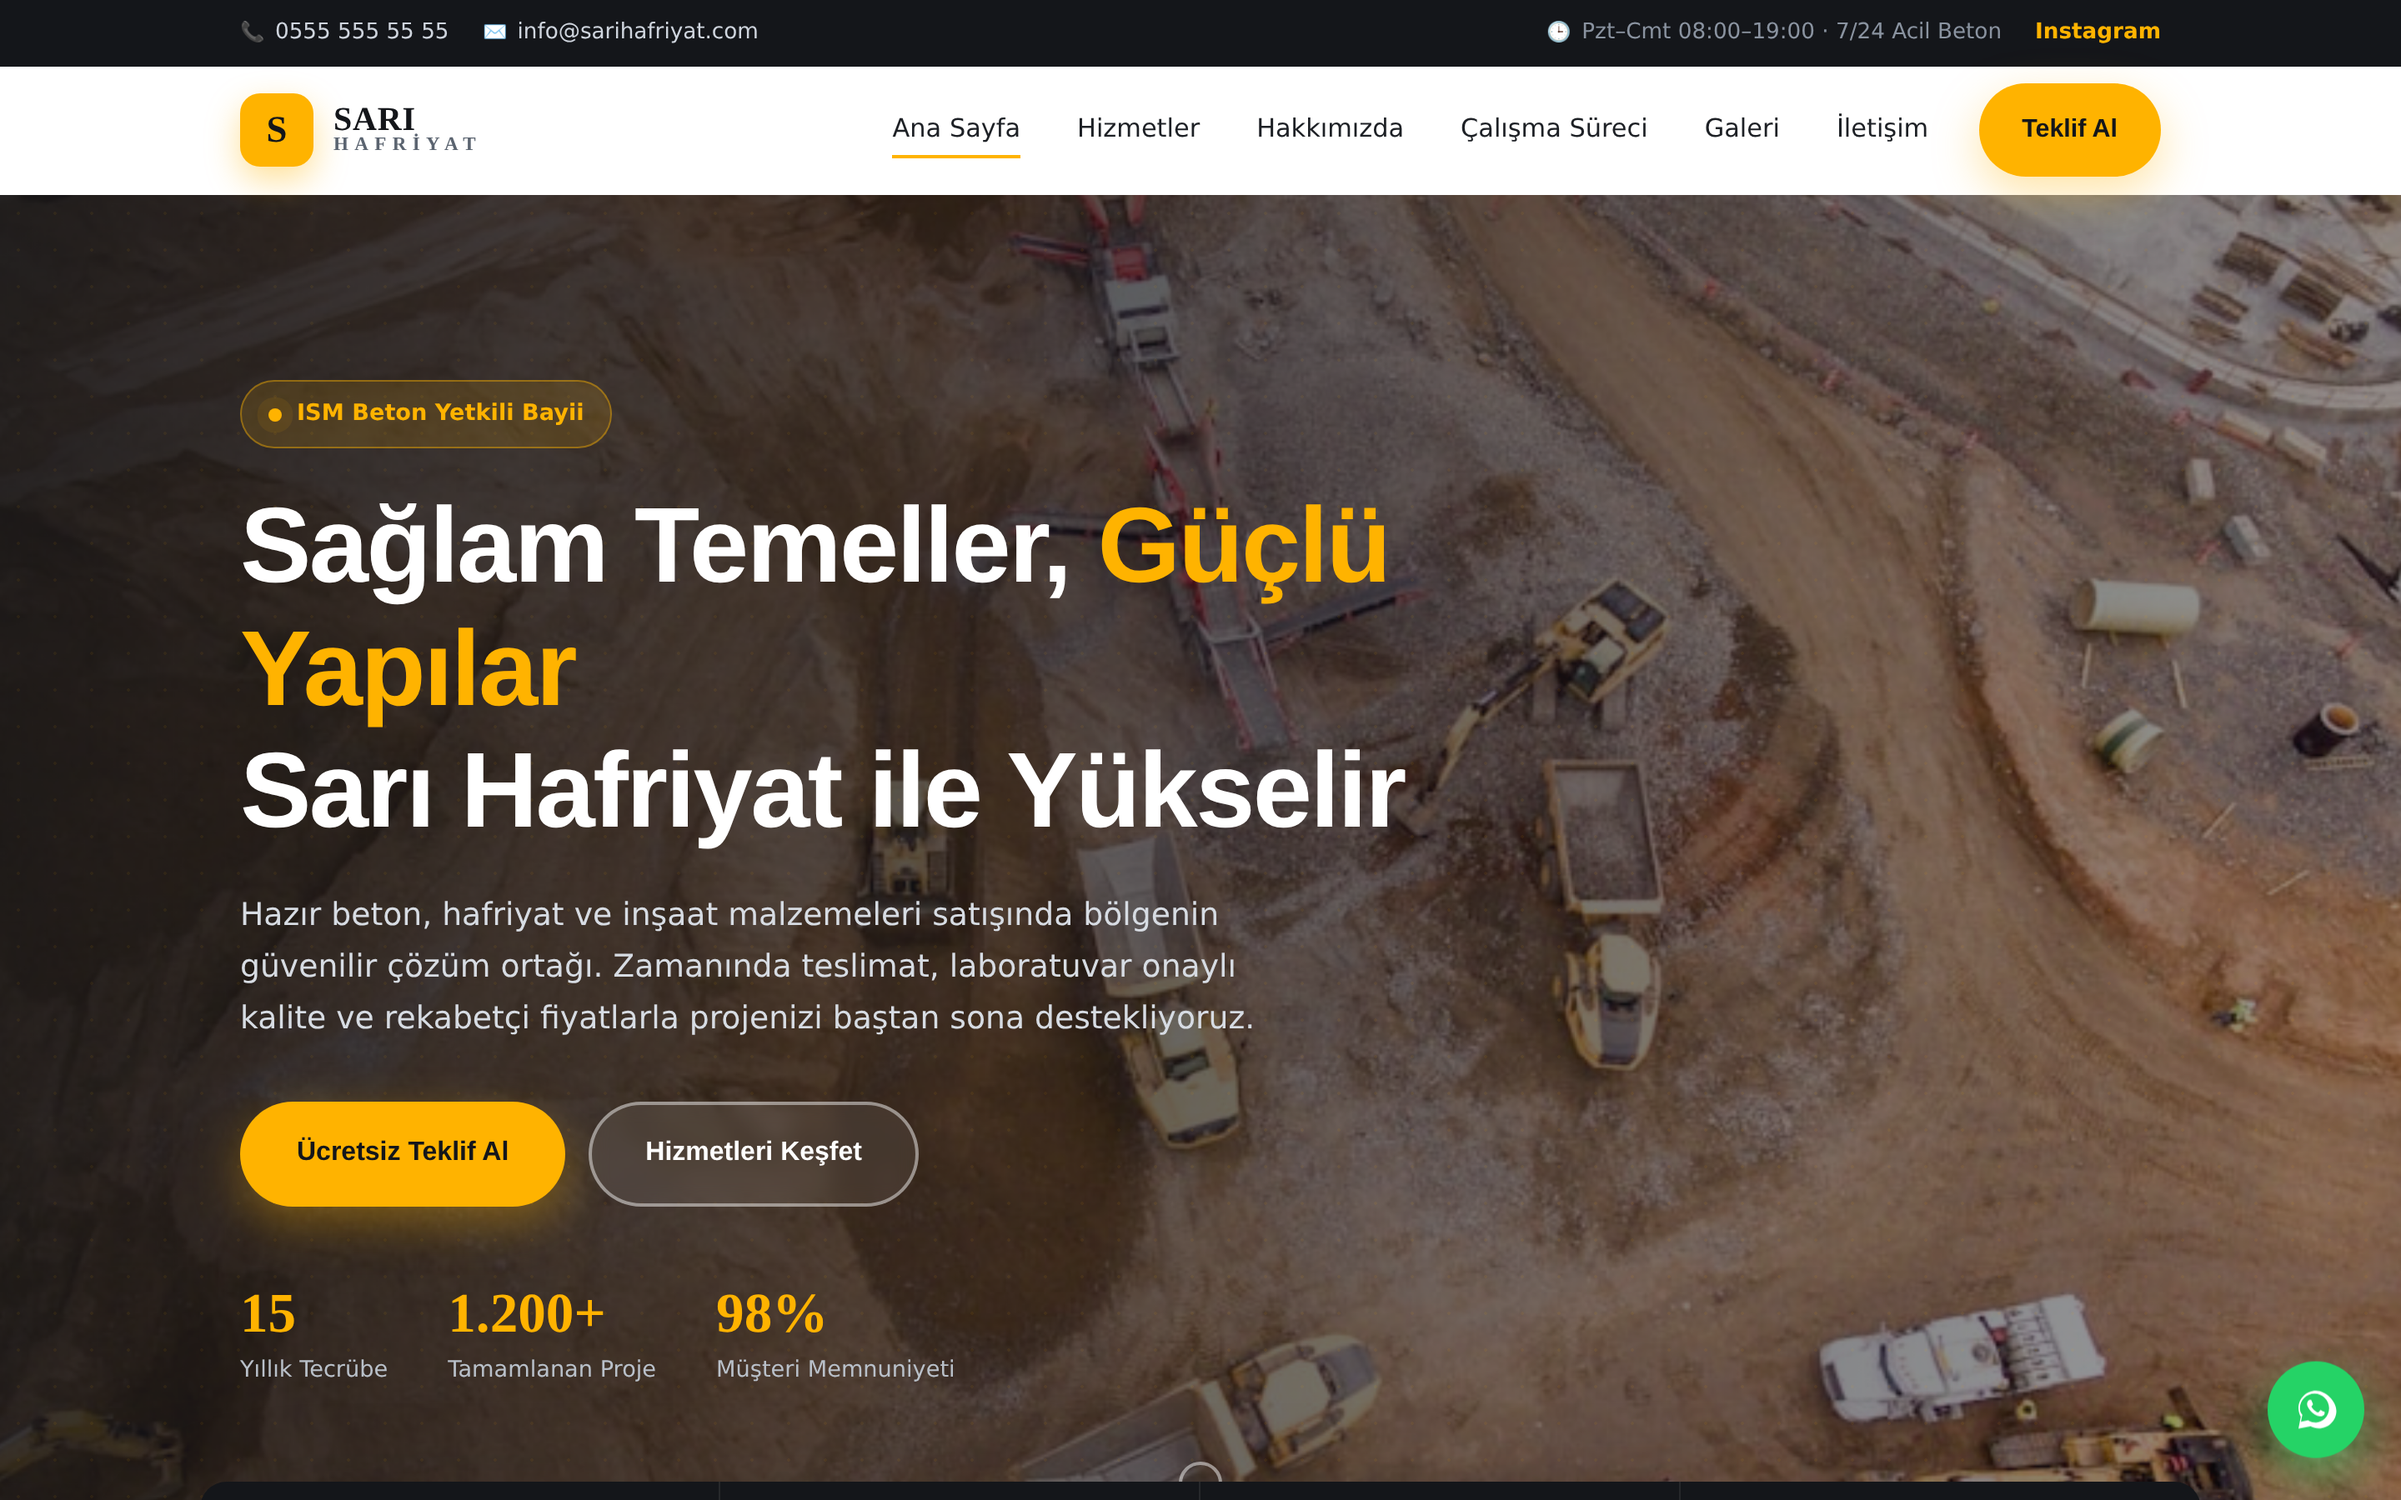
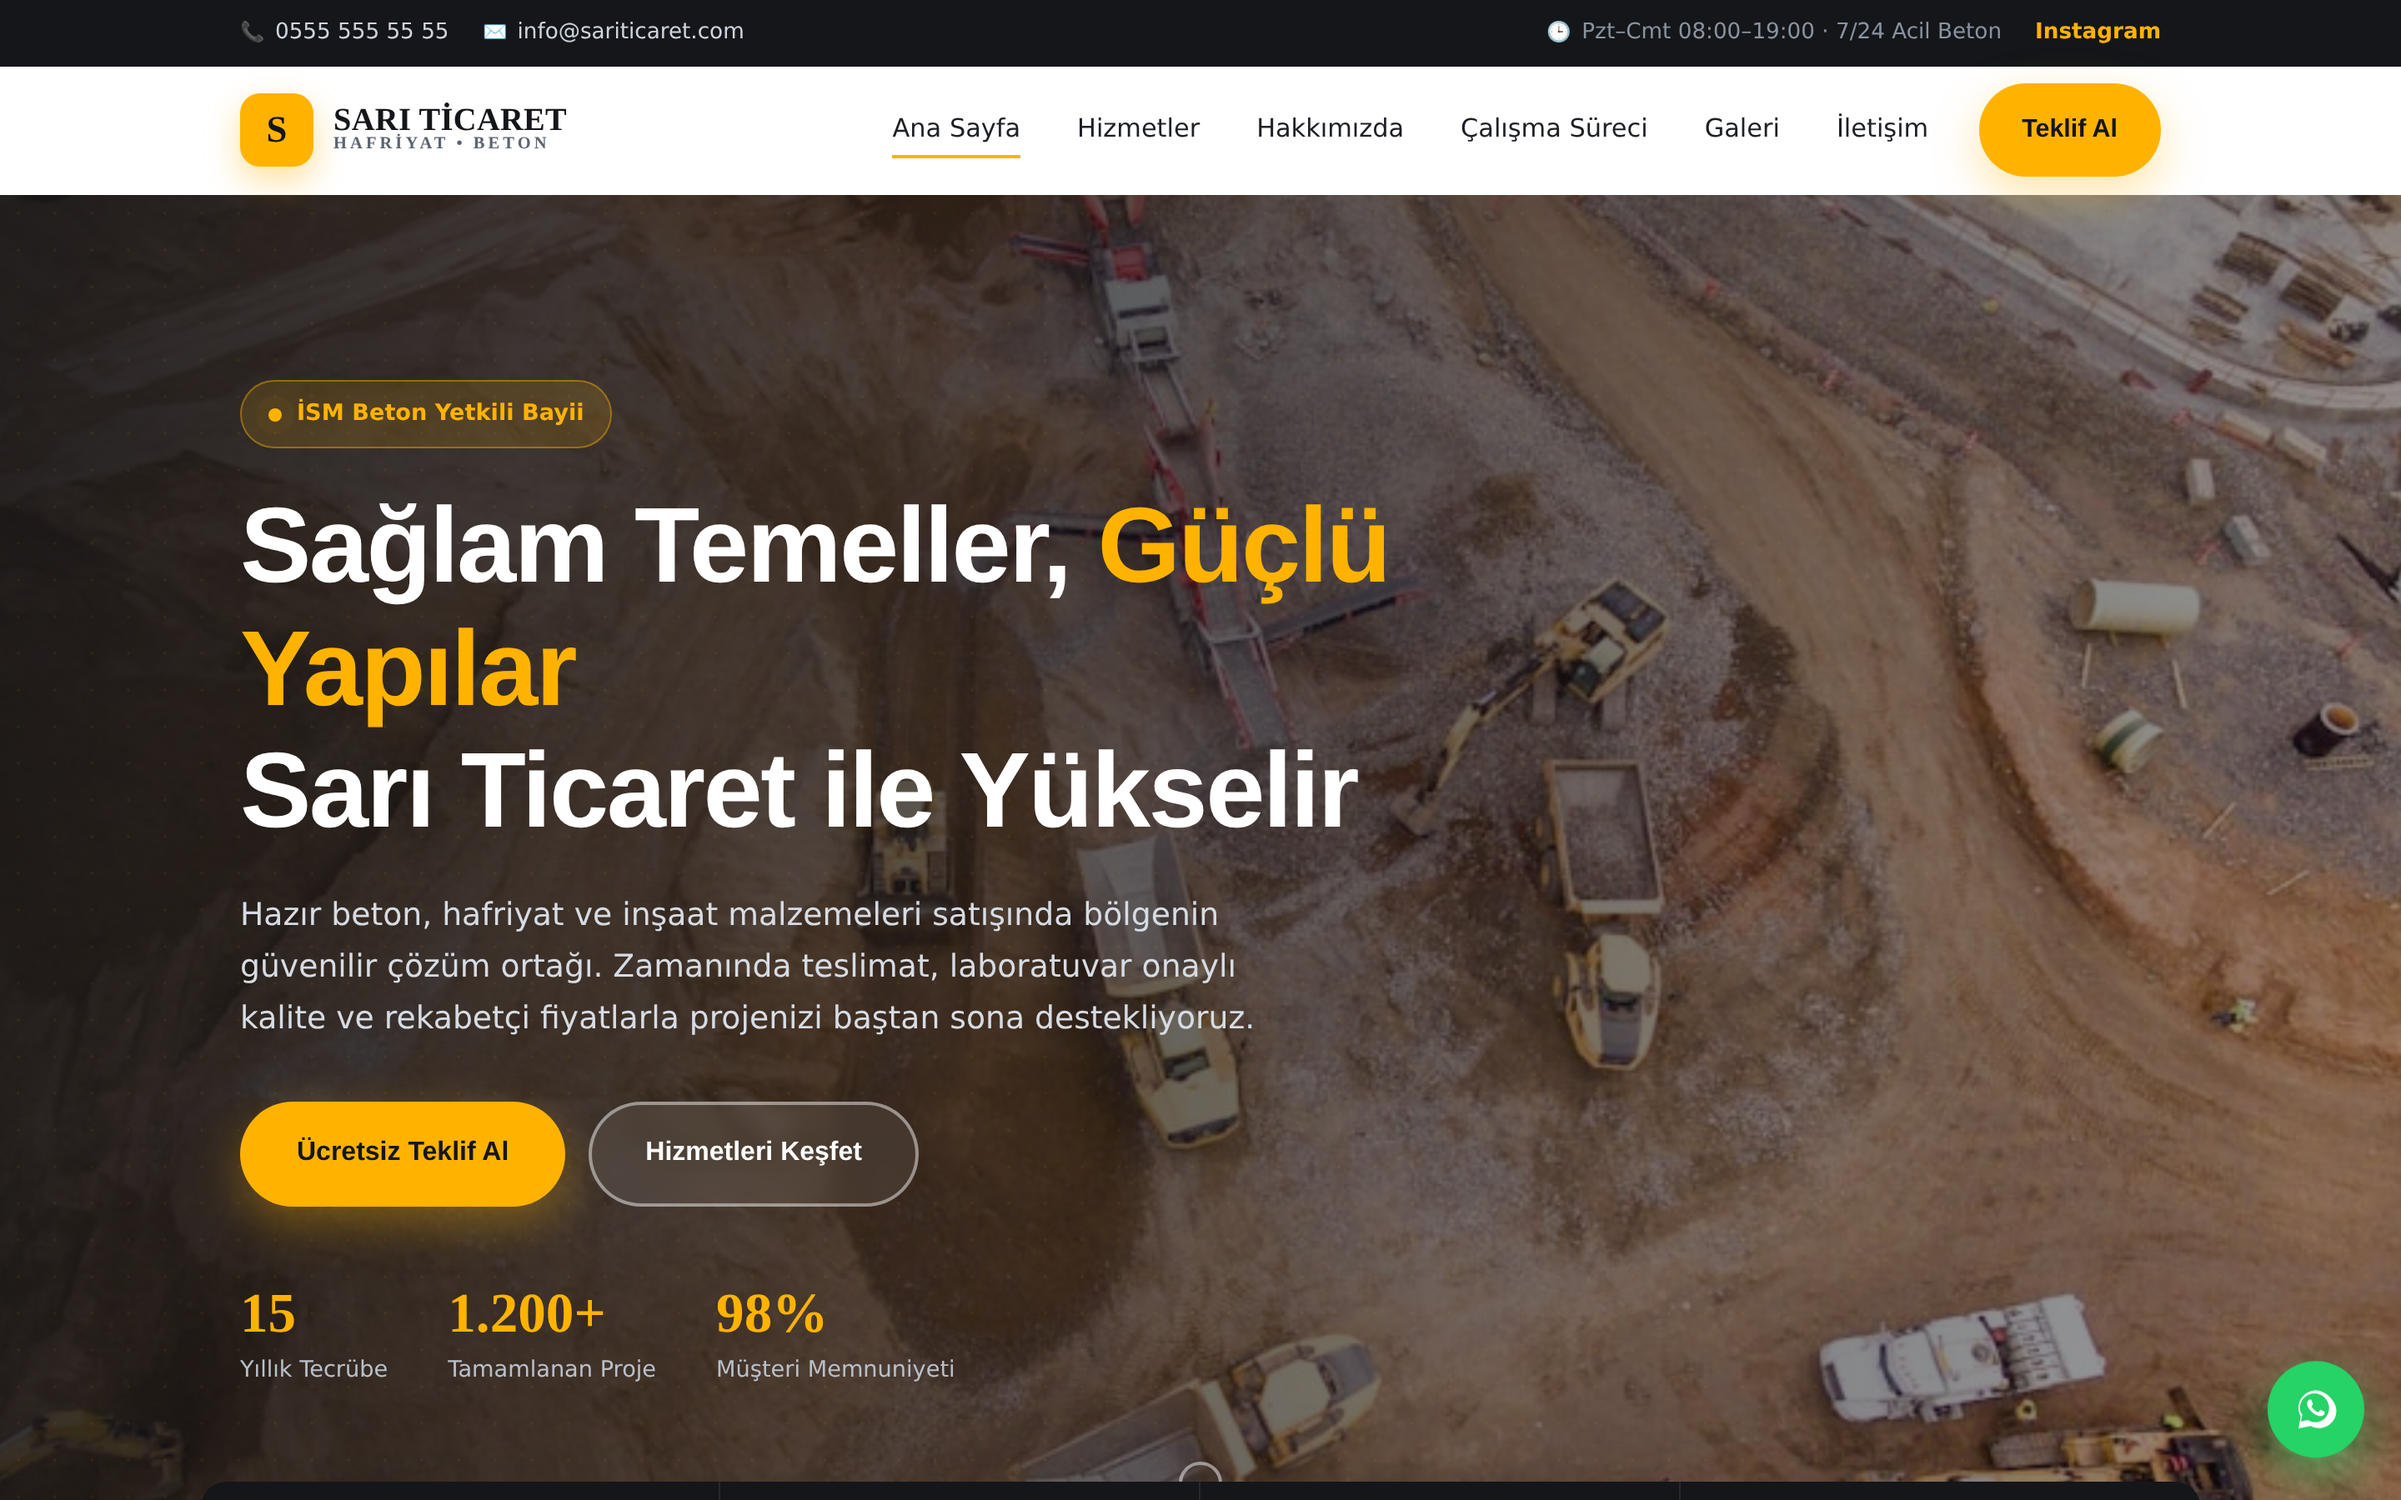
Rebrand site to SARI TİCARET (İSM Beton bayii) with Hafriyat & Beton tagline
Update brand name across header, footer, hero, about, meta/title/OG, map
and README to 'Sarı Ticaret' with 'HAFRİYAT • BETON' lockup tagline.
Normalize 'İSM Beton' spelling and align email placeholder. Refresh
screenshots.

Changed region(s): [[0.1875, 0.4978, 0.5938, 0.56], [0.125, 0.0622, 0.25, 0.1244], [0.25, 0.0, 0.3125, 0.0311]]

diff --git a/website/index.html b/website/index.html
@@ -4,15 +4,15 @@
   <meta charset="UTF-8" />
   <meta name="viewport" content="width=device-width, initial-scale=1.0" />
   <meta name="theme-color" content="#1a1a1a" />
-  <title>Sarı Hafriyat | Beton · Hafriyat · Malzeme Satışı — ISM Beton Bayii</title>
-  <meta name="description" content="Sarı Hafriyat — Hazır beton, hafriyat ve inşaat malzemeleri satışında güvenilir çözüm ortağınız. ISM Beton yetkili bayii. Zamanında teslimat, kaliteli malzeme, uygun fiyat." />
-  <meta name="keywords" content="hafriyat, hazır beton, beton bayii, ISM beton, inşaat malzemesi, kum, çakıl, mıcır, beton santrali, kazı, dolgu" />
+  <title>Sarı Ticaret | Hafriyat · Beton · Malzeme Satışı — İSM Beton Bayii</title>
+  <meta name="description" content="Sarı Ticaret — Hafriyat, hazır beton ve inşaat malzemeleri satışında güvenilir çözüm ortağınız. İSM Beton yetkili bayii. Zamanında teslimat, kaliteli malzeme, uygun fiyat." />
+  <meta name="keywords" content="hafriyat, hazır beton, beton bayii, İSM Beton, inşaat malzemesi, kum, çakıl, mıcır, beton santrali, kazı, dolgu" />
   <meta name="author" content="Altuncloud - Morina Aş." />
 
   <!-- Open Graph -->
   <meta property="og:type" content="website" />
-  <meta property="og:title" content="Sarı Hafriyat | Beton · Hafriyat · Malzeme Satışı" />
-  <meta property="og:description" content="ISM Beton yetkili bayii. Hazır beton, hafriyat ve inşaat malzemeleri için güvenilir adres." />
+  <meta property="og:title" content="Sarı Ticaret | Hafriyat · Beton · Malzeme Satışı" />
+  <meta property="og:description" content="İSM Beton yetkili bayii. Hazır beton, hafriyat ve inşaat malzemeleri için güvenilir adres." />
   <meta property="og:locale" content="tr_TR" />
 
   <link rel="preconnect" href="https://fonts.googleapis.com" />
@@ -28,7 +28,7 @@
     <div class="container topbar__inner">
       <div class="topbar__left">
         <a href="tel:+905555555555" class="topbar__item"><span class="ico" aria-hidden="true">📞</span> 0555 555 55 55</a>
-        <a href="mailto:info@sarihafriyat.com" class="topbar__item"><span class="ico" aria-hidden="true">✉</span> info@sarihafriyat.com</a>
+        <a href="mailto:info@sariticaret.com" class="topbar__item"><span class="ico" aria-hidden="true">✉</span> info@sariticaret.com</a>
       </div>
       <div class="topbar__right">
         <span class="topbar__item topbar__item--muted"><span class="ico" aria-hidden="true">🕒</span> Pzt–Cmt 08:00–19:00 · 7/24 Acil Beton</span>
@@ -40,10 +40,10 @@
   <!-- ====== HEADER / NAV ====== -->
   <header class="header" id="header">
     <div class="container header__inner">
-      <a href="#anasayfa" class="brand" aria-label="Sarı Hafriyat ana sayfa">
+      <a href="#anasayfa" class="brand" aria-label="Sarı Ticaret ana sayfa">
         <span class="brand__mark">S</span>
         <span class="brand__text">
-          <strong>SARI</strong><span>HAFRİYAT</span>
+          <strong>SARI TİCARET</strong><span>HAFRİYAT • BETON</span>
         </span>
       </a>
 
@@ -70,9 +70,9 @@
     <div class="hero__overlay" aria-hidden="true"></div>
     <div class="container hero__inner">
       <div class="hero__content reveal">
-        <span class="badge"><span class="badge__dot"></span> ISM Beton Yetkili Bayii</span>
+        <span class="badge"><span class="badge__dot"></span> İSM Beton Yetkili Bayii</span>
         <h1 class="hero__title">
-          Sağlam Temeller, <span class="hl">Güçlü Yapılar</span><br>Sarı Hafriyat ile Yükselir
+          Sağlam Temeller, <span class="hl">Güçlü Yapılar</span><br>Sarı Ticaret ile Yükselir
         </h1>
         <p class="hero__lead">
           Hazır beton, hafriyat ve inşaat malzemeleri satışında bölgenin güvenilir çözüm ortağı.
@@ -128,7 +128,7 @@
         <article class="service reveal">
           <div class="service__media service__media--beton" aria-hidden="true"></div>
           <div class="service__body">
-            <span class="service__tag">ISM Beton Bayii</span>
+            <span class="service__tag">İSM Beton Bayii</span>
             <h3>Hazır Beton</h3>
             <p>C16/20'den C50/60'a kadar tüm sınıflarda TSE standartlarına uygun hazır beton. Pompa ve mikser desteğiyle dökümünüzü sorunsuz tamamlayın.</p>
             <ul class="service__list">
@@ -188,11 +188,11 @@
       <div class="about__content reveal" data-delay="120">
         <span class="kicker">Hakkımızda</span>
         <h2 class="section__title">Bölgenin <span class="hl">Güvenilir</span> İnşaat Çözüm Ortağı</h2>
-        <p>Sarı Hafriyat olarak yılların verdiği tecrübe ve modern makine parkımızla beton, hafriyat ve malzeme tedariğinde fark yaratıyoruz. ISM Beton yetkili bayii olarak müşterilerimize sektörün en kaliteli ürünlerini sunuyoruz.</p>
+        <p>Sarı Ticaret olarak yılların verdiği tecrübe ve modern makine parkımızla hafriyat, beton ve malzeme tedariğinde fark yaratıyoruz. İSM Beton yetkili bayii olarak müşterilerimize sektörün en kaliteli ürünlerini sunuyoruz.</p>
         <p>Küçük tadilatlardan büyük ölçekli inşaat projelerine kadar her işi aynı titizlikle ele alıyor; zamanında teslimat, şeffaf fiyatlandırma ve iş güvenliğini önceliğimiz yapıyoruz.</p>
 
         <div class="about__points">
-          <div class="point"><span class="point__ico">✓</span> ISM Beton yetkili bayiliği</div>
+          <div class="point"><span class="point__ico">✓</span> İSM Beton yetkili bayiliği</div>
           <div class="point"><span class="point__ico">✓</span> Modern makine ve filo parkı</div>
           <div class="point"><span class="point__ico">✓</span> Uzman ve sertifikalı operatörler</div>
           <div class="point"><span class="point__ico">✓</span> İş sağlığı ve güvenliği önceliği</div>
@@ -337,7 +337,7 @@
         <ul class="contact__list">
           <li><span class="contact__ico">📍</span><div><strong>Adres</strong><br>Sanayi Mah. Beton Cad. No:1, Merkez</div></li>
           <li><span class="contact__ico">📞</span><div><strong>Telefon</strong><br><a href="tel:+905555555555">0555 555 55 55</a></div></li>
-          <li><span class="contact__ico">✉</span><div><strong>E-posta</strong><br><a href="mailto:info@sarihafriyat.com">info@sarihafriyat.com</a></div></li>
+          <li><span class="contact__ico">✉</span><div><strong>E-posta</strong><br><a href="mailto:info@sariticaret.com">info@sariticaret.com</a></div></li>
           <li><span class="contact__ico">🕒</span><div><strong>Çalışma Saatleri</strong><br>Pzt–Cmt 08:00–19:00 · 7/24 Acil Beton</div></li>
         </ul>
 
@@ -381,7 +381,7 @@
   <!-- ====== MAP ====== -->
   <div class="map">
     <iframe
-      title="Sarı Hafriyat Konum"
+      title="Sarı Ticaret Konum"
       src="https://www.openstreetmap.org/export/embed.html?bbox=28.8,40.9,29.2,41.1&layer=mapnik"
       loading="lazy" referrerpolicy="no-referrer-when-downgrade"></iframe>
   </div>
@@ -392,9 +392,9 @@
       <div class="footer__col">
         <a href="#anasayfa" class="brand brand--footer">
           <span class="brand__mark">S</span>
-          <span class="brand__text"><strong>SARI</strong><span>HAFRİYAT</span></span>
+          <span class="brand__text"><strong>SARI TİCARET</strong><span>HAFRİYAT • BETON</span></span>
         </a>
-        <p>Beton, hafriyat ve inşaat malzemeleri satışında güvenilir çözüm ortağınız. ISM Beton yetkili bayii.</p>
+        <p>Beton, hafriyat ve inşaat malzemeleri satışında güvenilir çözüm ortağınız. İSM Beton yetkili bayii.</p>
         <a href="https://www.instagram.com/sarihafriyat" target="_blank" rel="noopener" class="social">Instagram'da Takip Et</a>
       </div>
       <div class="footer__col">
@@ -415,12 +415,12 @@
         <h5>İletişim</h5>
         <p>Sanayi Mah. Beton Cad. No:1, Merkez</p>
         <p><a href="tel:+905555555555">0555 555 55 55</a></p>
-        <p><a href="mailto:info@sarihafriyat.com">info@sarihafriyat.com</a></p>
+        <p><a href="mailto:info@sariticaret.com">info@sariticaret.com</a></p>
       </div>
     </div>
     <div class="footer__bottom">
       <div class="container footer__bottom-inner">
-        <p>© <span id="year"></span> Sarı Hafriyat. Tüm hakları saklıdır.</p>
+        <p>© <span id="year"></span> Sarı Ticaret. Tüm hakları saklıdır.</p>
         <p class="footer__credit">Site tasarımı: <a href="#" class="credit">Altuncloud — Morina A.Ş.</a></p>
       </div>
     </div>

diff --git a/website/css/style.css b/website/css/style.css
@@ -98,8 +98,8 @@ ul { list-style: none; }
   box-shadow: 0 8px 20px rgba(255,179,0,.4); flex: none;
 }
 .brand__text { display: flex; flex-direction: column; line-height: 1; font-family: "Sora"; }
-.brand__text strong { font-size: 1.25rem; letter-spacing: .02em; }
-.brand__text span { font-size: .72rem; letter-spacing: .32em; color: var(--gray); font-weight: 600; }
+.brand__text strong { font-size: 1.2rem; letter-spacing: .01em; white-space: nowrap; }
+.brand__text span { font-size: .64rem; letter-spacing: .2em; color: var(--gray); font-weight: 600; white-space: nowrap; }
 
 .nav { display: flex; align-items: center; gap: 6px; }
 .nav__link {

diff --git a/website/README.md b/website/README.md
@@ -1,4 +1,4 @@
-# Sarı Hafriyat — Kurumsal Web Sitesi
+# Sarı Ticaret — Kurumsal Web Sitesi
 
 Beton · Hafriyat · Malzeme Satışı yapan firma için modern, hızlı ve mobil uyumlu
 tek sayfalık (one-page) tanıtım sitesi. **ISM Beton yetkili bayii** vurgusuyla
@@ -66,4 +66,4 @@ python3 -m http.server 8000
 
 ---
 
-© Sarı Hafriyat — Site tasarımı **Altuncloud — Morina A.Ş.**
+© Sarı Ticaret — Site tasarımı **Altuncloud — Morina A.Ş.**
